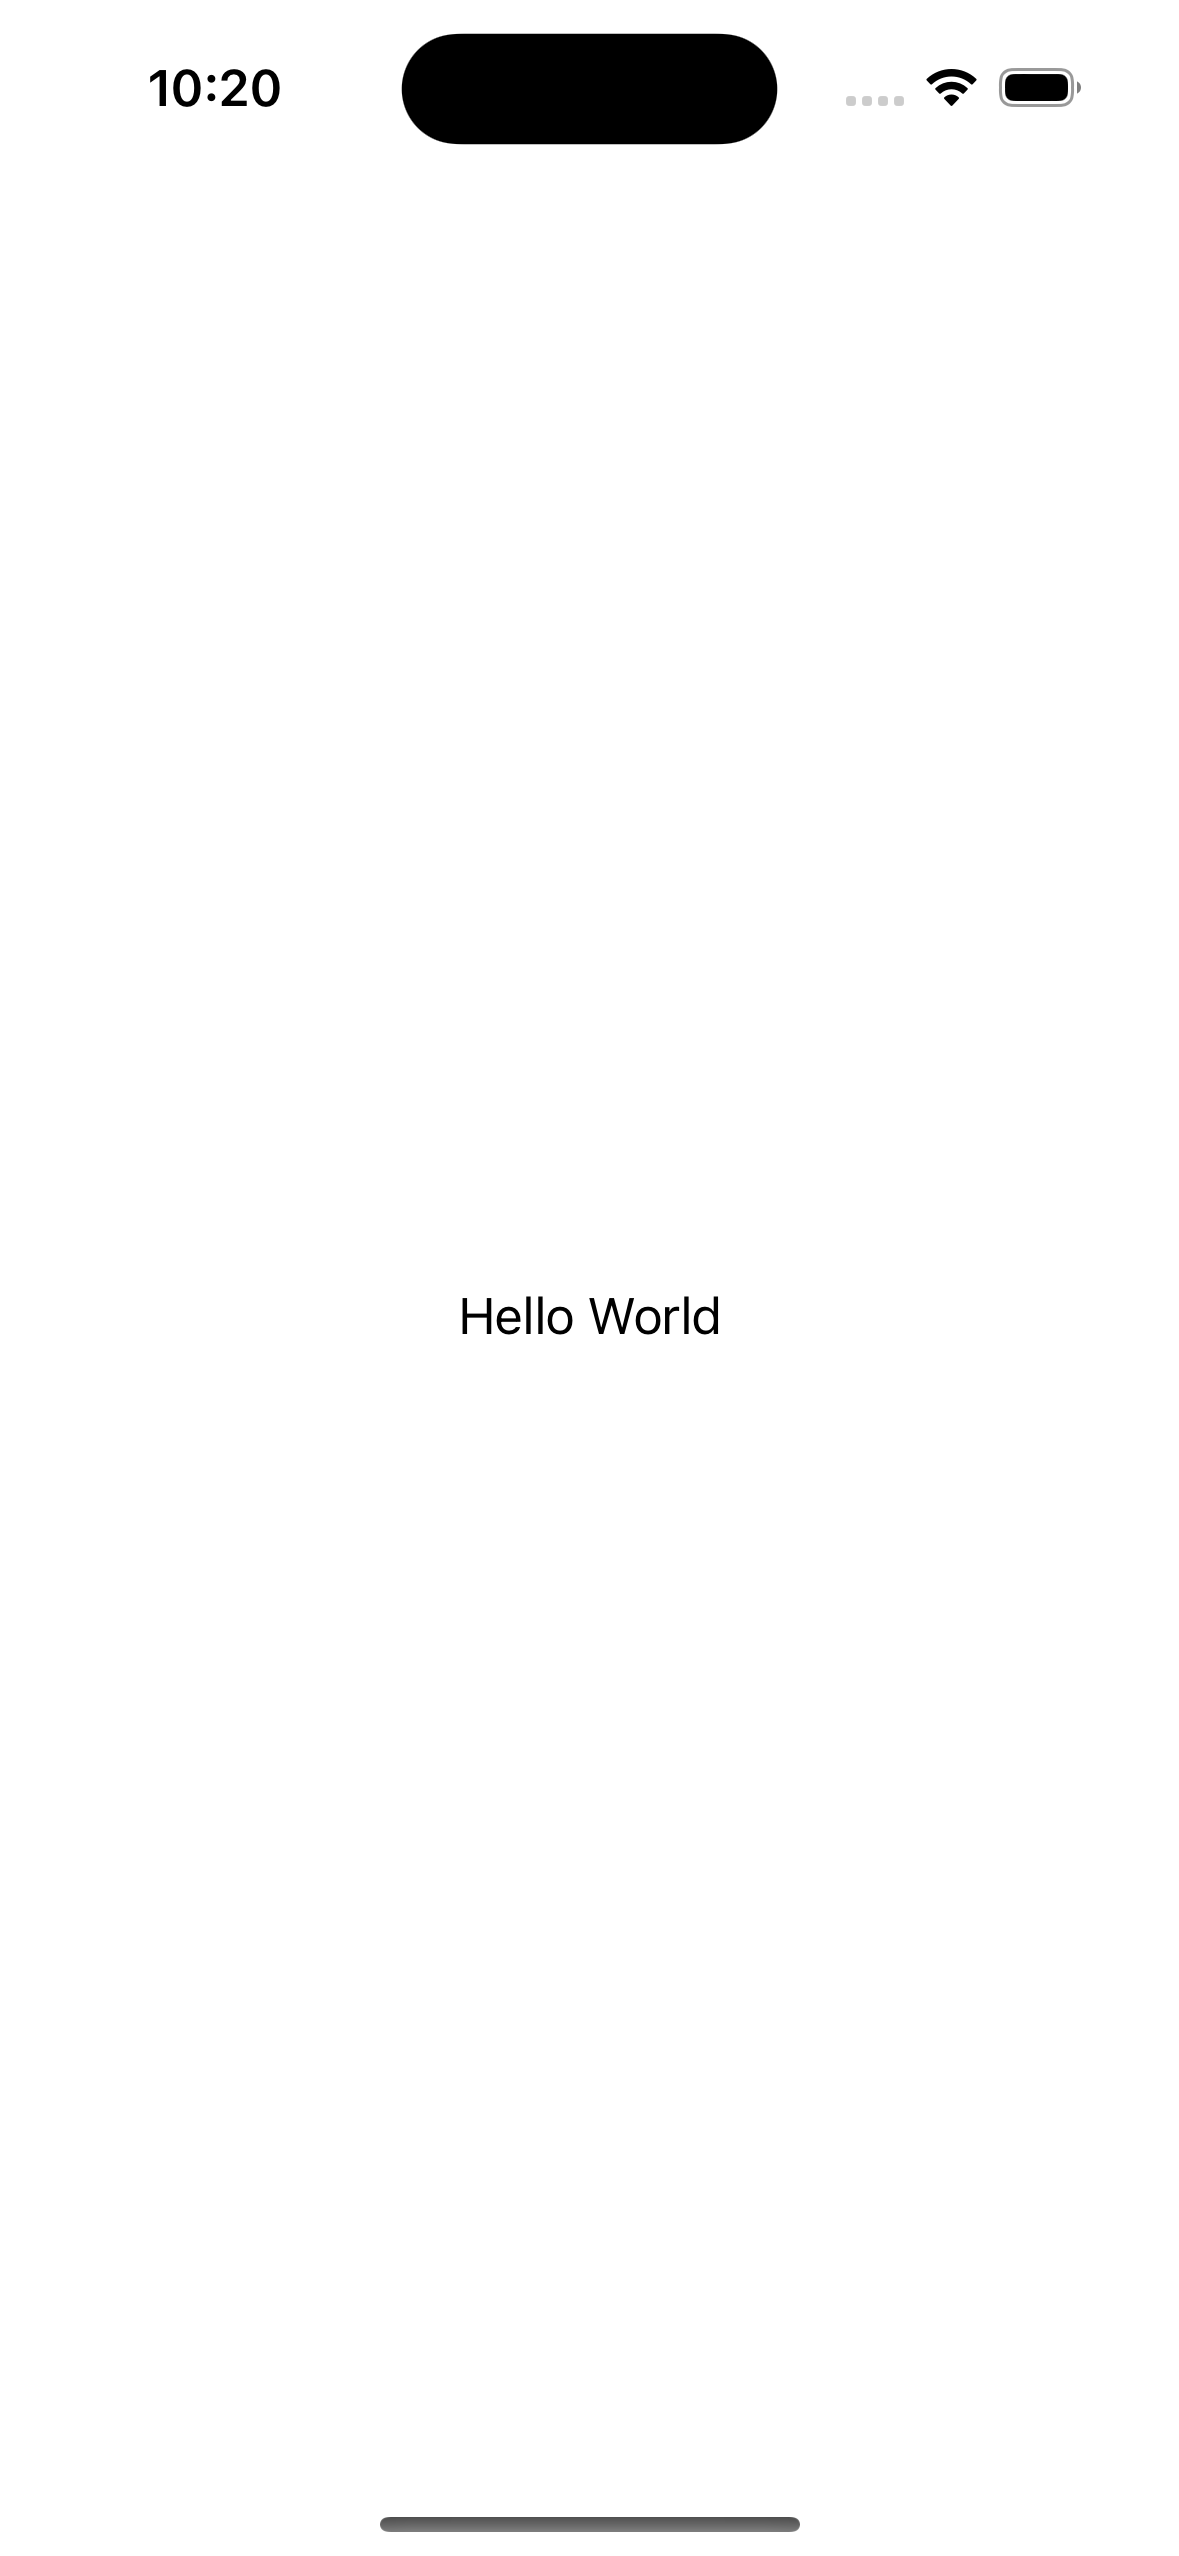
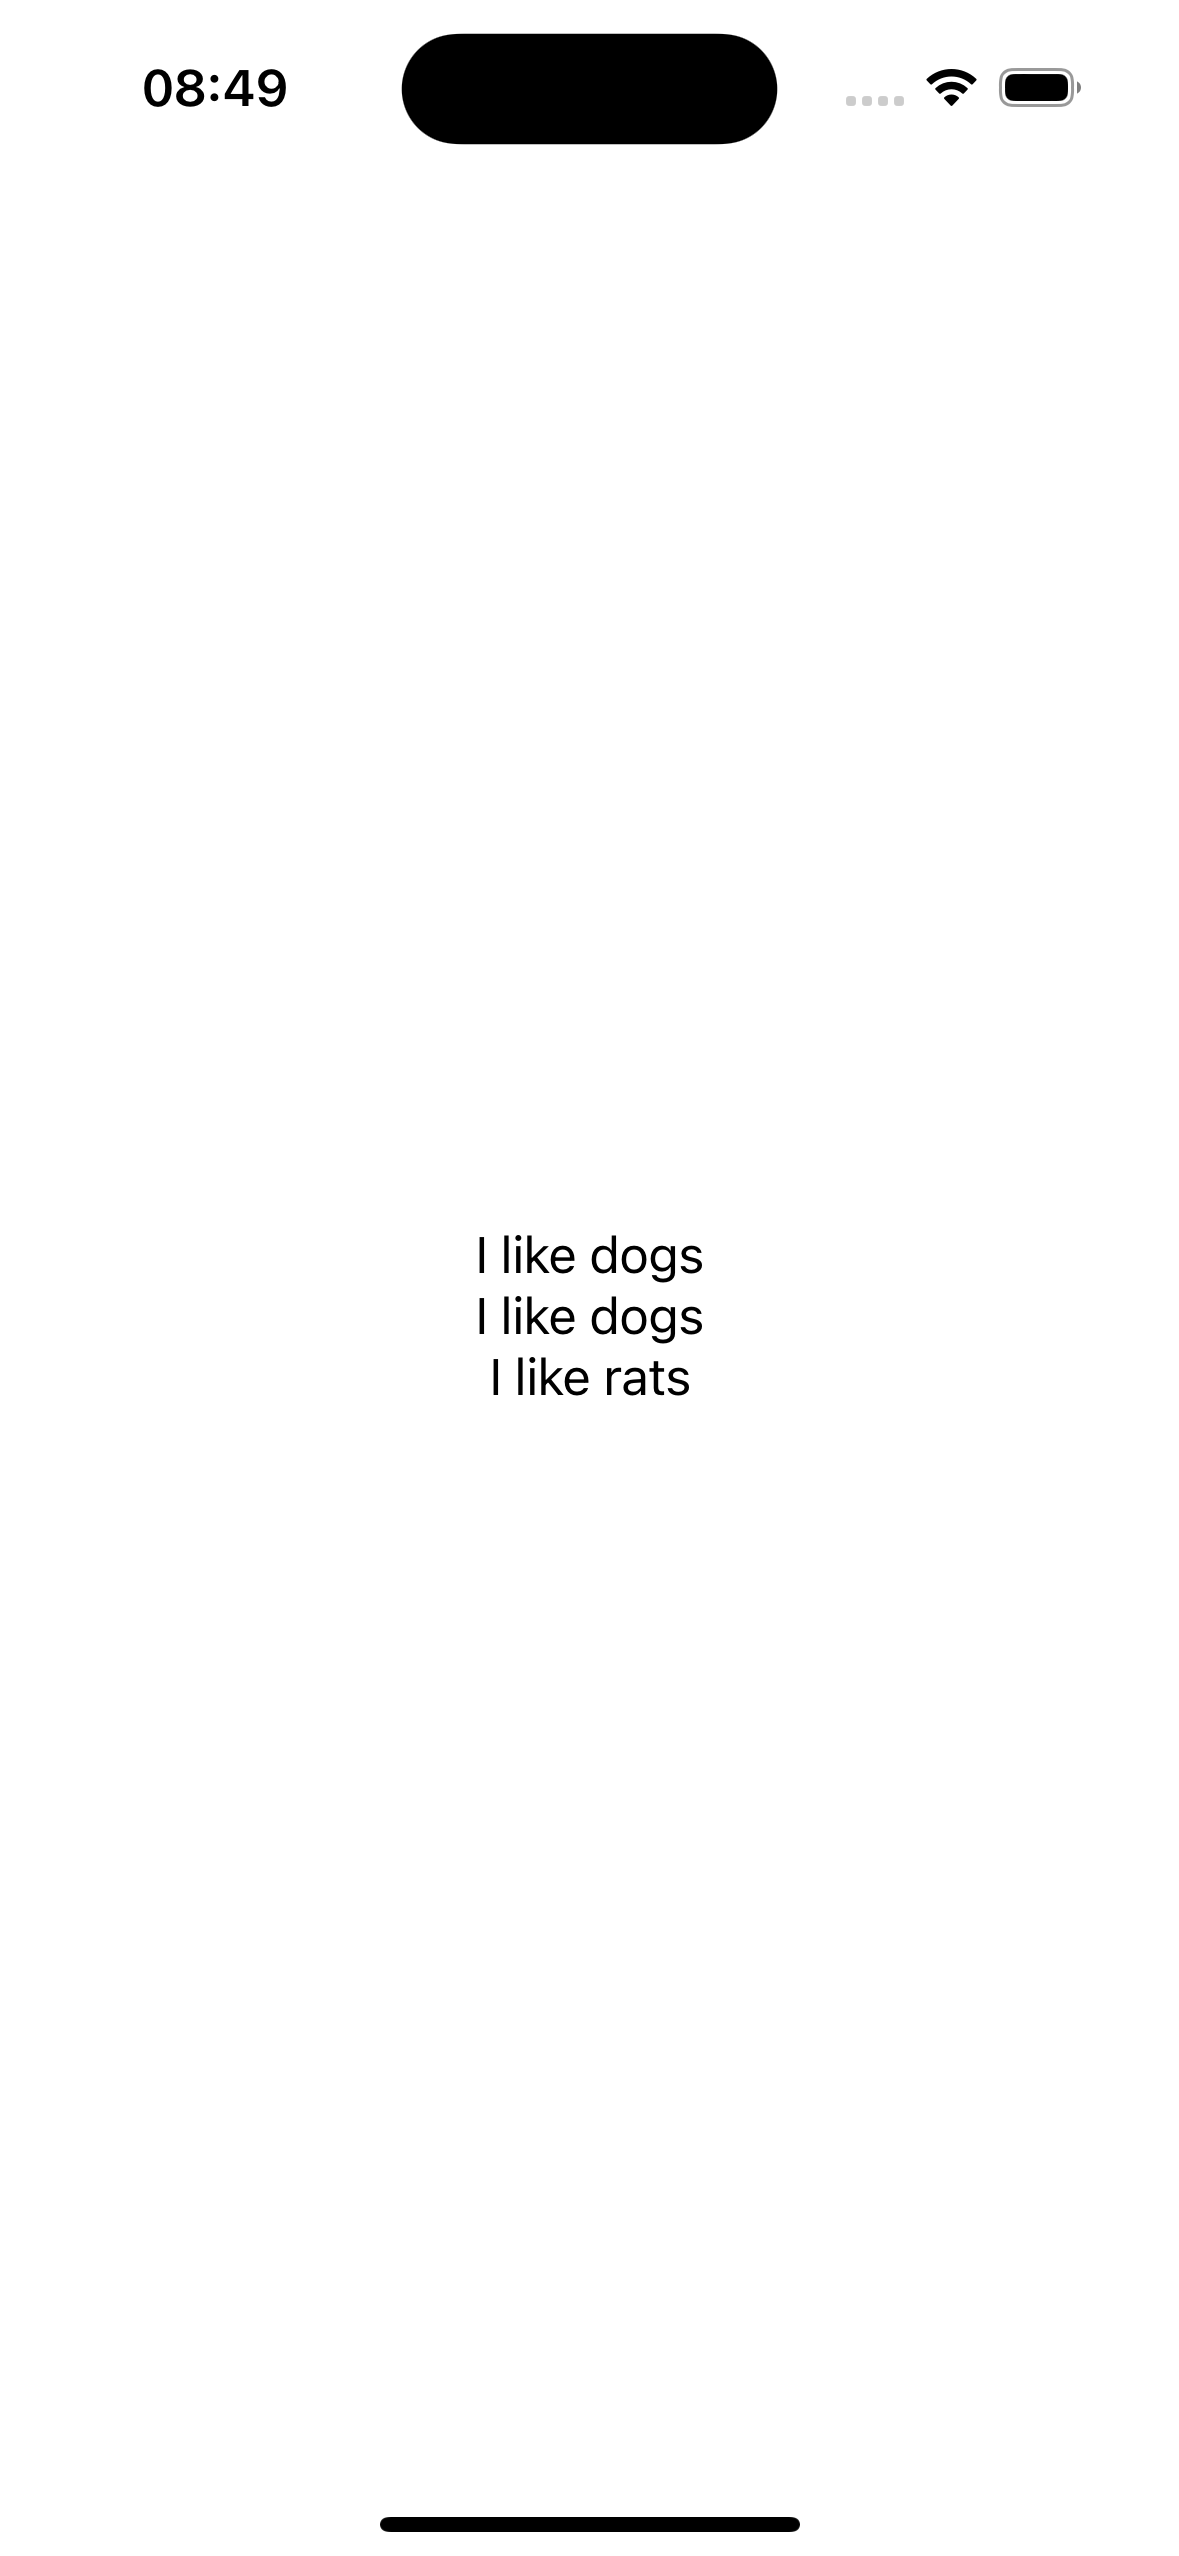
Show regular exceptions in action starting since 5.7

Changed region(s): [[0.3359, 0.9581, 0.6718, 1.0], [0.3969, 0.4636, 0.6107, 0.5563], [0.1221, 0.0309, 0.2443, 0.0618]]

diff --git a/SwiftUITipsAndTricks/ContentView.swift b/SwiftUITipsAndTricks/ContentView.swift
@@ -10,8 +10,22 @@ import CoreData
 
 struct ContentView: View {
 
+    init() {
+        let search = /My name is (?<name>.+?) and I'm (?<age>\d+) years old./
+        let greeting = "My name is Taylor and I'm 26 years old."
+        if let result = try? search.wholeMatch(in: greeting) {
+            print("Name: \(result.name)")
+            print("Age: \(result.age)")
+        }
+    }
+    
     var body: some View {
-        Text("Hello World")
+        
+        VStack {
+            Text("I like bats".replacing(/[a-d]ats/, with: "dogs"))
+            Text("I like cats".replacing(/[a-d]ats/, with: "dogs"))
+            Text("I like rats".replacing(/[a-d]ats/, with: "dogs"))
+        }
     }
 }
 

diff --git a/README.md b/README.md
@@ -1,12 +1,38 @@
-## Text example
+## [Regular expressions](https://www.hackingwithswift.com/swift/5.7/regexes)
+
+Swift parses your regular expressions at compile time, making sure they are valid .
+
+To see how powerful this difference is, consider this code:
 
 ```swift
-struct ContentView: View {
+let search1 = /My name is (.+?) and I'm (\d+) years old./
+let greeting1 = "My name is Taylor and I'm 26 years old."
 
-    var body: some View {
-        Text("Hello World")
-    }
+if let result = try? search1.wholeMatch(in: greeting1) {
+    print("Name: \(result.1)")
+    print("Age: \(result.2)")
 }
+```
+
+That creates a regex looking for two particular values in some text, and if it finds them both prints them. But notice how the result tuple can reference its matches as `.1` and `.2`, because Swift knows exactly which matches will occur. (In case you were wondering, `.0` will return the whole matched string.)
+
+In fact, we can go even further because regular expressions allow us to name our matches, and these flow through to the resulting tuple of matches:
+
+```swift
+let search = /My name is (?<name>.+?) and I'm (?<age>\d+) years old./
+let greeting = "My name is Taylor and I'm 26 years old."
+if let result = try? search.wholeMatch(in: greeting) {
+    print("Name: \(result.name)")
+    print("Age: \(result.age)")
+}
+```
+
+Other examples
+
+```swift
+Text("I like bats".replacing(/[a-d]ats/, with: "dogs"))
+Text("I like cats".replacing(/[a-d]ats/, with: "dogs"))
+Text("I like rats".replacing(/[a-d]ats/, with: "dogs"))
 ```
 
 <img src="preview.png" width="40%" >
